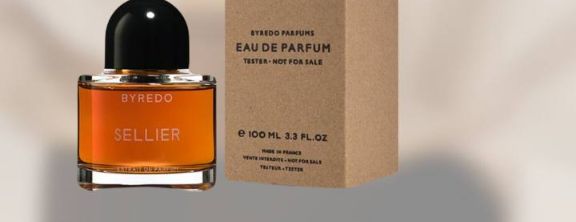
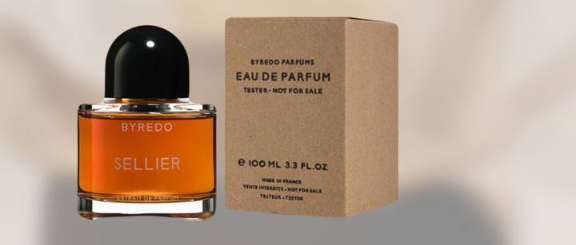
fix: uncropped consultation cards with Vladimir suit photo & real sample case, fix tester flacon cropping and overlapping text in tcc-def

diff --git a/assets/css/style.css b/assets/css/style.css
@@ -2973,19 +2973,20 @@ body.hero-cinematic-active .menu-toggle-btn .burger-line {
 .tcc-media {
   position: relative;
   width: 100%;
-  height: 240px;
+  height: 290px;
   background: #FAF8F5;
   overflow: hidden;
   display: flex;
   align-items: center;
   justify-content: center;
+  padding: 1.25rem 1.75rem;
   border-bottom: 1px solid var(--border-subtle, #E8E4DC);
 }
 
 .tcc-media img {
   width: 100%;
   height: 100%;
-  object-fit: cover;
+  object-fit: contain;
   object-position: center;
   display: block;
   transition: transform 0.6s cubic-bezier(0.16, 1, 0.3, 1);
@@ -3003,17 +3004,21 @@ body.hero-cinematic-active .menu-toggle-btn .burger-line {
 }
 
 .tcc-def {
-  font-size: 0.92rem;
-  line-height: 1.6;
-  color: #1C1612;
+  display: block;
+  font-size: 0.90rem;
+  line-height: 1.65;
+  color: #2C2622;
   padding: 1.15rem 1.35rem;
   background: #FAF8F5;
   border-radius: var(--radius-md, 14px);
   margin-bottom: 1.75rem;
   border-left: 3px solid #D4AF37;
-  min-height: 84px;
-  display: flex;
-  align-items: center;
+}
+
+.tcc-def strong {
+  display: inline;
+  font-weight: 700;
+  color: #111216;
 }
 
 .tester-compare-card.retail .tcc-def {
@@ -7860,10 +7865,10 @@ section[id],
 }
 
 .method-card-media {
-  height: 260px;
+  height: 380px;
   position: relative;
   overflow: hidden;
-  background: #1A1A1A;
+  background: #0f1013;
   border-bottom: 1px solid var(--border-subtle, #E8E4DC);
 }
 
@@ -7874,6 +7879,14 @@ section[id],
   object-position: center 20%;
   display: block;
   transition: transform 0.6s cubic-bezier(0.16, 1, 0.3, 1);
+}
+
+.consult-method-card:first-child .method-card-media img {
+  object-position: center 35%;
+}
+
+.consult-method-card.hit .method-card-media img {
+  object-position: center 15%;
 }
 
 .consult-method-card:hover .method-card-media img {

diff --git a/index.html b/index.html
@@ -20,7 +20,7 @@
   <link href="https://fonts.googleapis.com/css2?family=Cormorant+Garamond:ital,wght@0,400;0,500;0,600;0,700;1,400;1,500;1,600&family=Plus+Jakarta+Sans:wght@300;400;500;600;700&display=swap" rel="stylesheet">
 
   <!-- Main Stylesheet -->
-  <link rel="stylesheet" href="assets/css/style.css?v=20261025_01">
+  <link rel="stylesheet" href="assets/css/style.css?v=20261025_02">
 </head>
 <body>
 
@@ -1332,7 +1332,7 @@
         <!-- 1 СПОСОБ: Подбор онлайн -->
         <div class="consult-method-card">
           <div class="method-card-media">
-            <img src="assets/img/consultation/consult_online_box.jpg" alt="Онлайн-подбор парфюмерного гардероба" loading="lazy">
+            <img src="assets/img/consultation/vladimir_case_blotters_real.jpg" alt="Селективная аромапапка с блоттерами для онлайн-разбора" loading="lazy">
             <span class="method-card-badge">ОНЛАЙН-ПОДБОР</span>
           </div>
 
@@ -1372,7 +1372,7 @@
         <!-- 2 СПОСОБ: Офлайн в Москве -->
         <div class="consult-method-card hit">
           <div class="method-card-media">
-            <img src="assets/img/consultation/vladimir_case_blotters_real.jpg" alt="Очная консультация в Москве с чемоданом селектива и блоттерами" loading="lazy">
+            <img src="assets/img/consultation/vladimir_volodium_suit_box.jpg" alt="Очная консультация в Москве с основателем Владимиром Вациком" loading="lazy">
             <span class="method-card-badge gold-badge">★ ОЧНАЯ ВСТРЕЧА В МОСКВЕ ★</span>
           </div>
 
